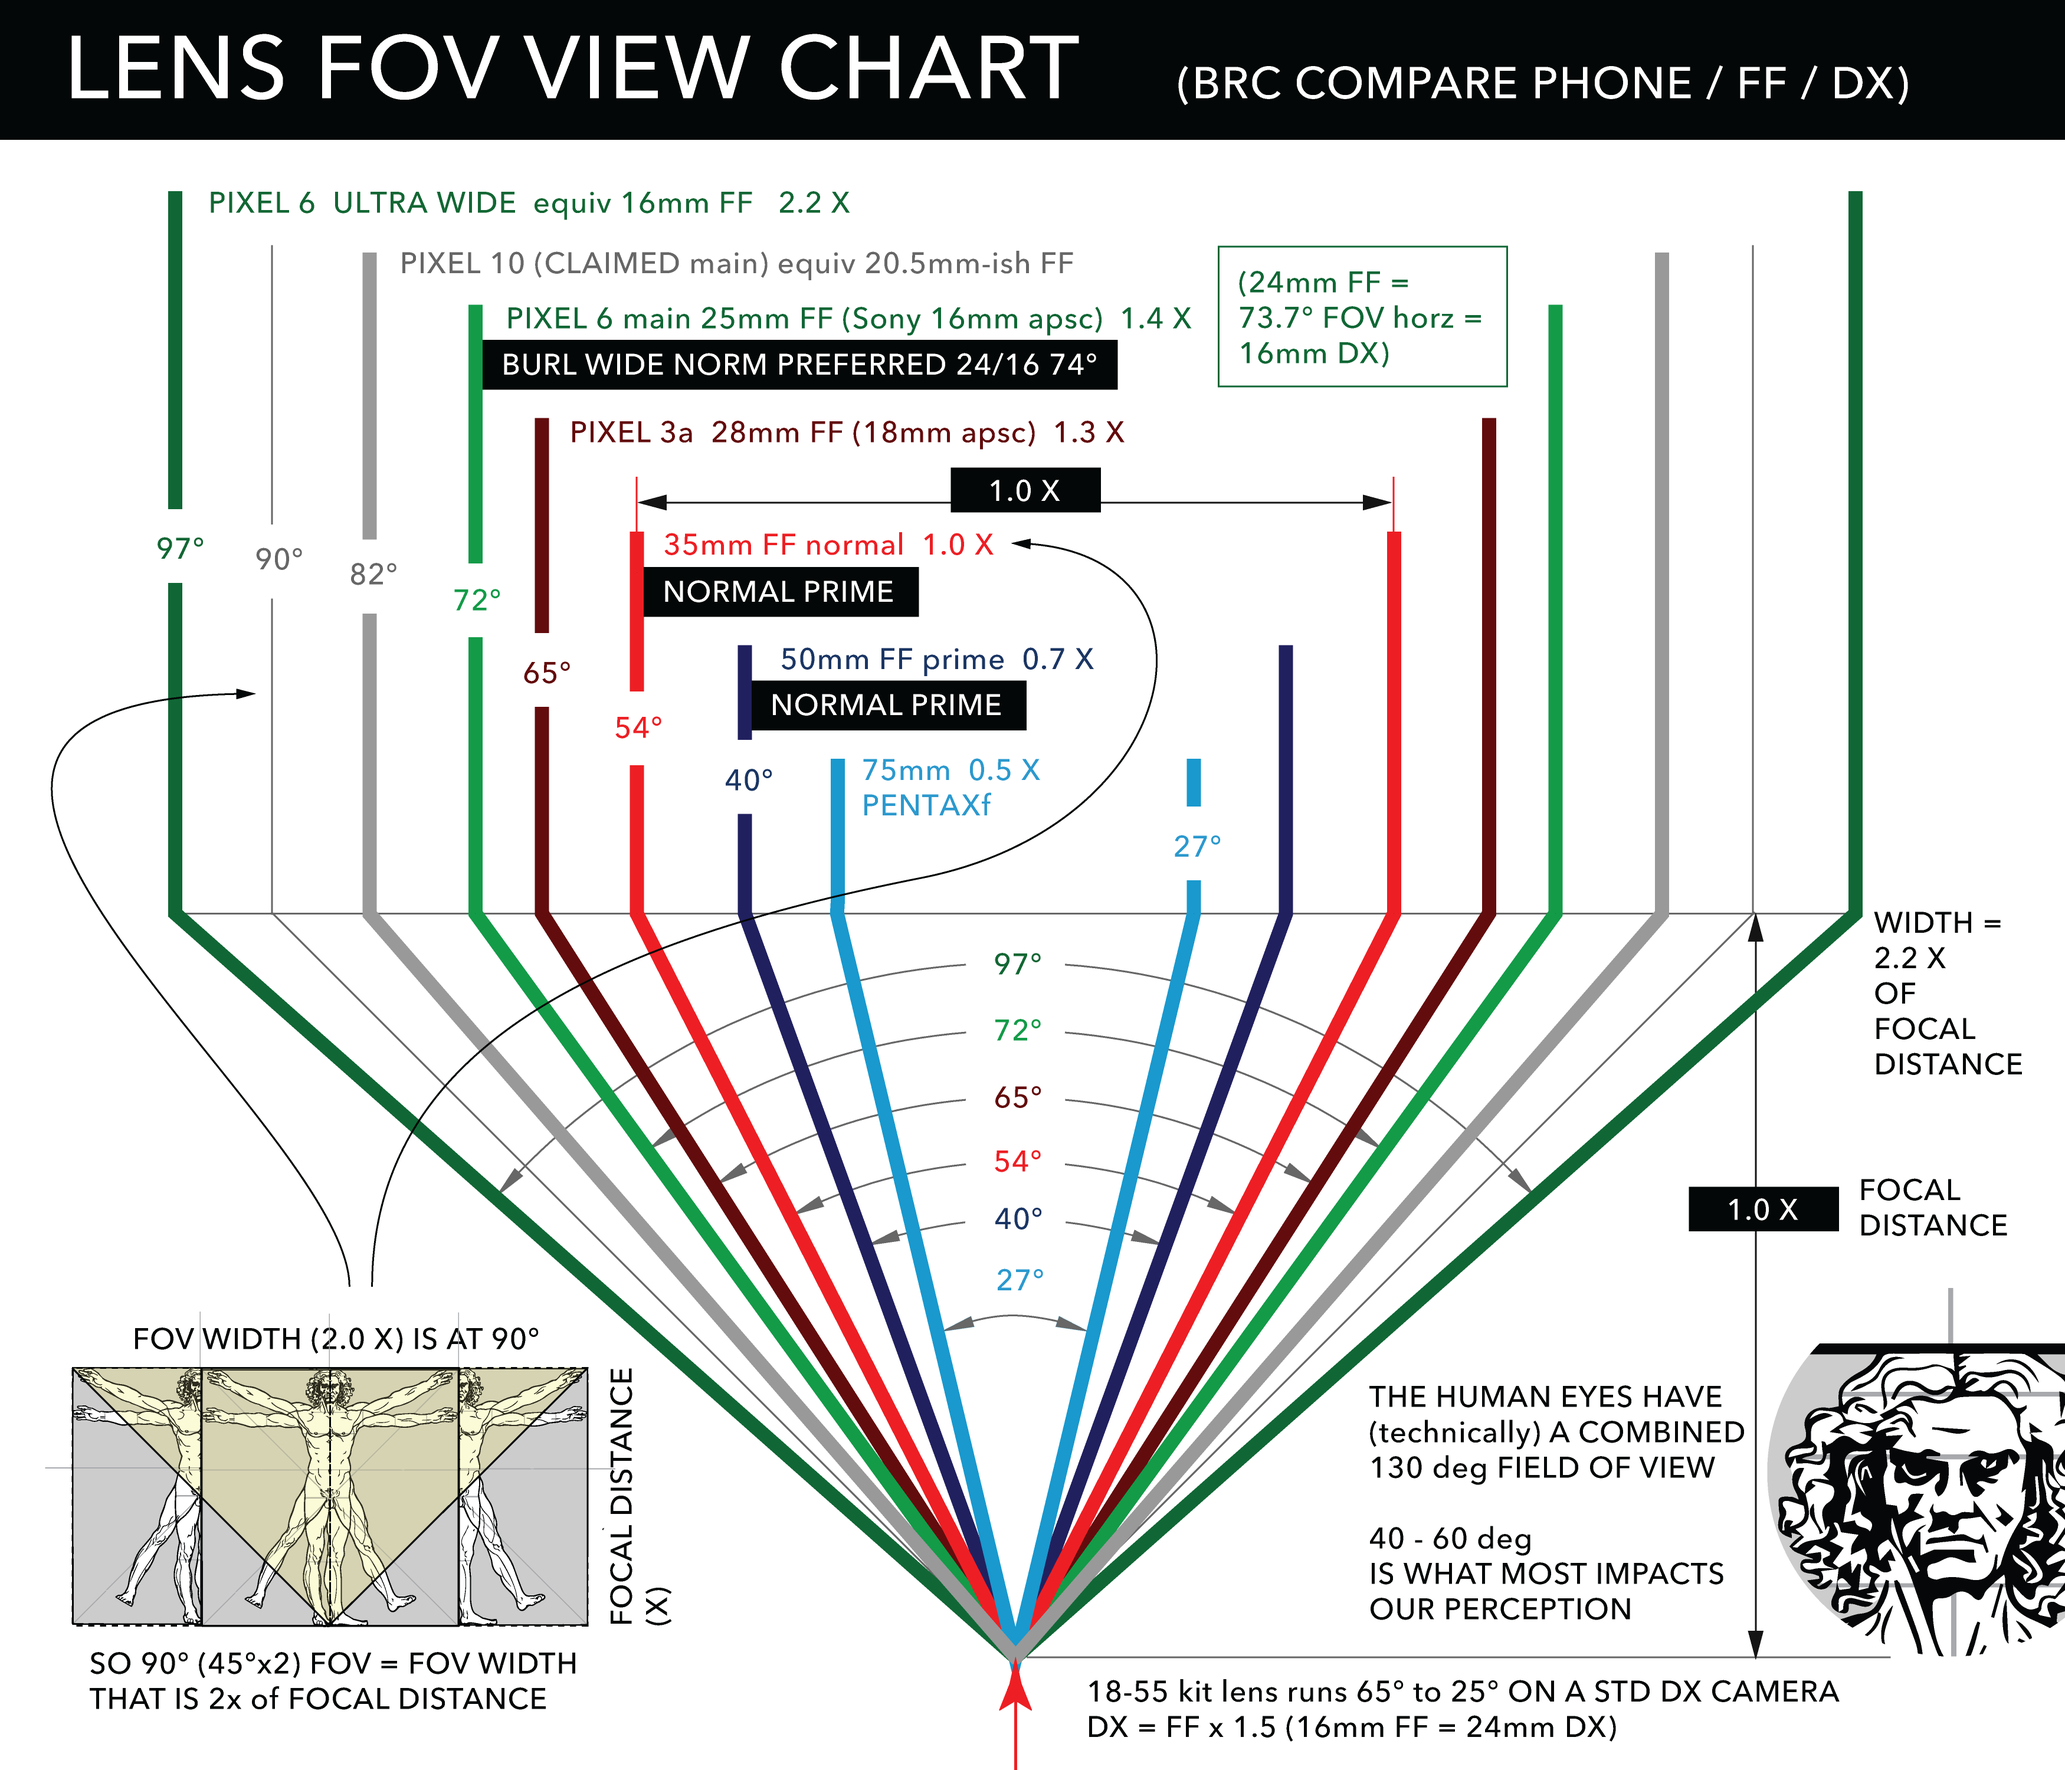
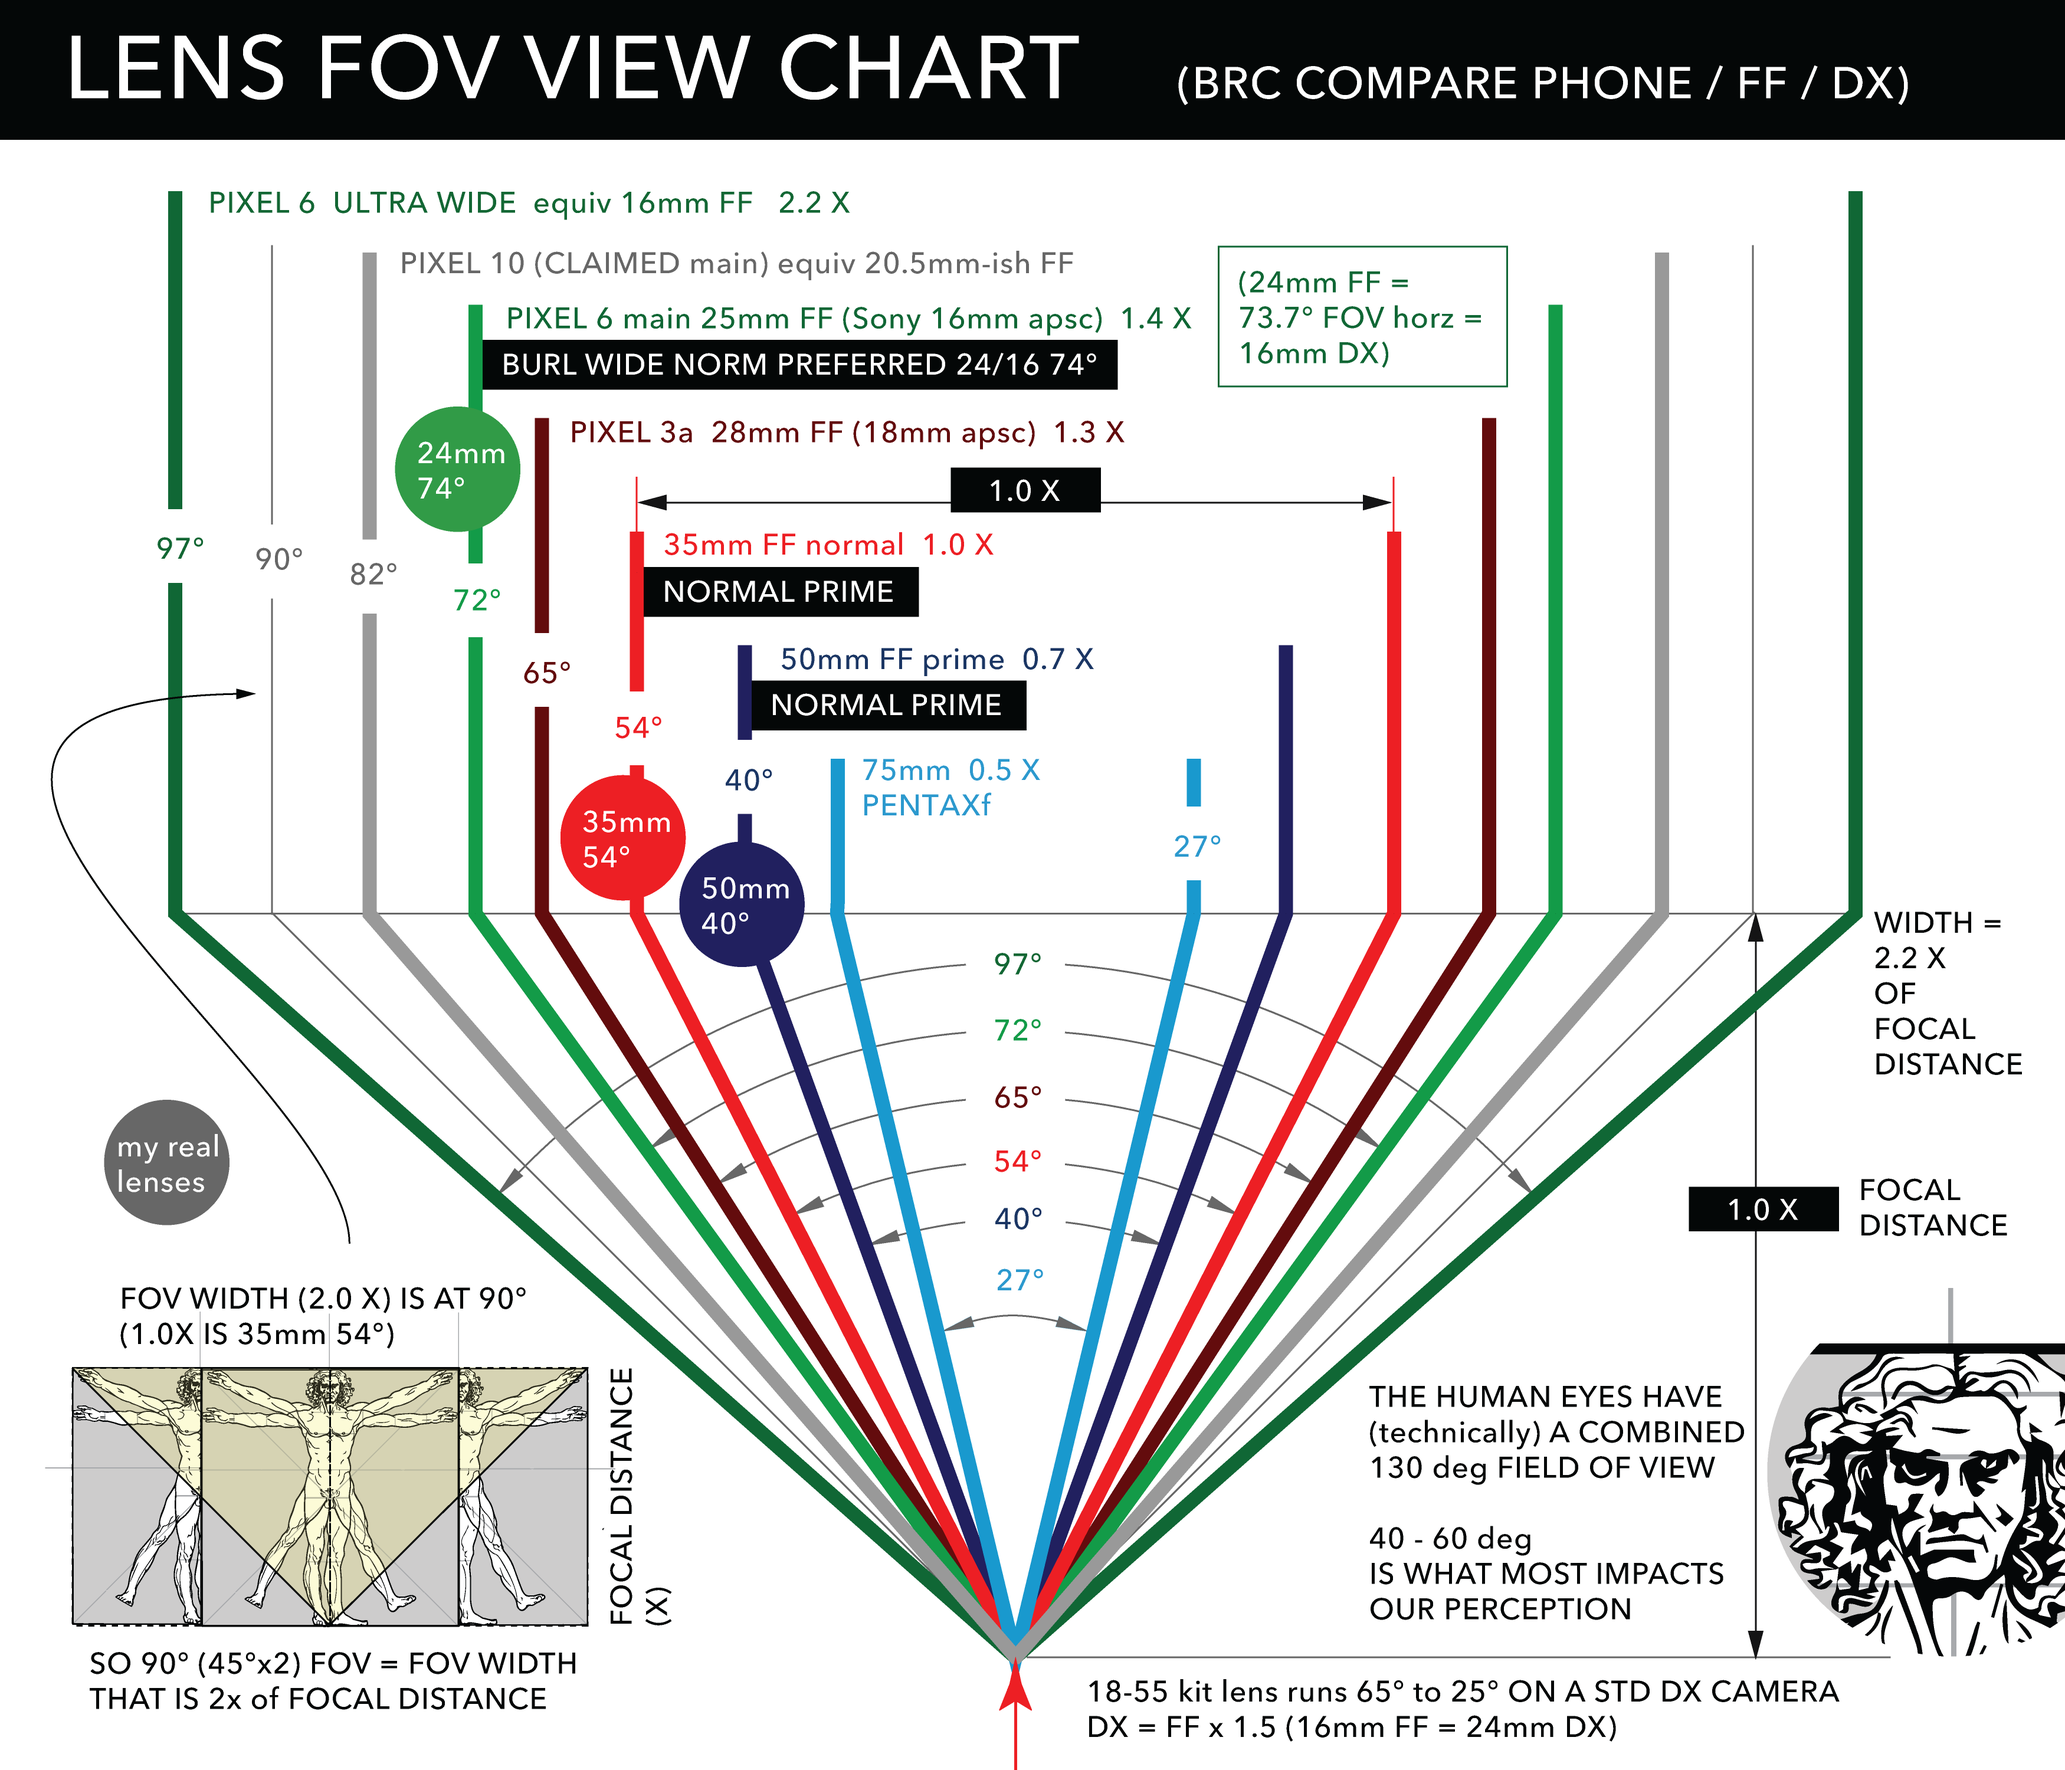
fov image

Changed region(s): [[0.0311, 0.62, 0.2491, 0.775], [0.2491, 0.434, 0.4049, 0.558], [0.1869, 0.217, 0.2491, 0.31]]

diff --git a/0test/camera.htm b/0test/camera.htm
@@ -28,12 +28,21 @@ body, html { background-image: none; }
 
 <br>
 ---------------------<br>
-Field of View<br>
+FIELD OF VIEW<br>
 ---------------------<br>
 <br>
 
-
 </div> <!-- zc Close -->
+
+
+
+<div class="zoneclass"> <!-- ZC -->
+
+<a href="https://photos.app.goo.gl/ETZzJrPm43scQuNj6" class="button media external"><span class="font">Europe 2001</span><img src="images/000/gpic.png" class="badge"></a>
+
+<a href="https://www.pointsinfocus.com/tools/depth-of-field-and-equivalent-lens-calculator" class="button media external"><span class="font">len FOV</span><img src="images/000/square.png" class="badge"></a>
+
+</div> <!-- ZC Close -->
 
 
 
@@ -48,14 +57,13 @@ Field of View<br>
 
 
 
-<div class="zoneclass"> <!-- ZC -->
+<div class="zoneclass"> <span class="regcase"> <!-- ZC -->
 
 <br>
 ---------------------<br>
 CAMERAS<br>
 ---------------------<br>
 <br>
-
 
 Original 35mm fixed lens VIVITAR
 <br>
@@ -135,7 +143,7 @@ Pixel 6 - wider angle, like my ideal 16/24mm. So sharp and bright, unreal pics f
 
 
 
-<div class="zoneclass"> <!-- ZC -->
+<div class="zoneclass"> <span class="regcase"> <!-- ZC -->
 
 <br>
 ---------------------<br>
@@ -195,16 +203,9 @@ My nephew asked - what filter is that? Because they look soft of warm magical. H
 
 
 
-<div class="zoneclass"> <!-- ZC -->
-
-<a href="https://photos.app.goo.gl/ETZzJrPm43scQuNj6" class="button media external"><span class="font">Europe 2001</span><img src="images/000/gpic.png" class="badge"></a>
-
-<a href="https://www.pointsinfocus.com/tools/depth-of-field-and-equivalent-lens-calculator" class="button media external"><span class="font">len FOV</span><img src="images/000/square.png" class="badge"></a>
-
-</div> <!-- ZC Close -->
 
 
-<div class="zoneclass"> <!-- ZC -->
+<div class="zoneclass"> <span class="regcase"> <!-- ZC -->
 
 <br>
 ---------------------<br>
@@ -246,7 +247,7 @@ In any case, it was a really lovely lens to use. The mechanisms and markings and
 
 
 
-<div class="zoneclass"> <!-- ZC -->
+<div class="zoneclass"> <span class="regcase"> <!-- ZC -->
 
 <br>
 ---------------------<br>
@@ -259,8 +260,17 @@ The Samsung A5 camera was OK, but Samsung over-saturates and without optical sta
 <br><br>
 The Pixels changed everything.
 <br>
-The colour processing is amazing and overall the image quality is just absurdly high. It's odd. My ideal (favoured) FOV is as per a 24mm ff lens (16mm on an APSC). That's 74°. A 50mm ff is 40°, a 35 prime ff is 54°. The pixel 3a was 65°, so 1/2 way beteen a normal 50mma nd a wide 24mm. SO the Pixel 3a was good for me, but still a compromise from a real camera. However the Pixel 6 came in at an astounding 72° - just 2° off a 24mm. Wow. They too, when making a totally mainstream camera, recognize the magical quality of wide shots. It's amazing. The Pixel 10, which I have not used, is listed as FOV 82° ! Wow, maybe too wide? That is amazing. With the right software you could have a set switch (instead of just 'zoom', like on a kit lens) for a set of primes - a 35, a 50, a 24, and a 20.5 (82° FOV). That is amazing. And appearently the lens they use in the pixel cameras is itself not that great - it certainly is small - it's the software magic (and I think repreated exposures in some cases from which they can build a file. I think the moment between the file take/save - as a RAW file - and the 'presentation' of a JPG has fantastic value,a nd explains why teh camera phones can do so much even up against real cameras and lenses of a previous generation.
+The colour processing is amazing and overall the image quality is just absurdly high. It's odd. My ideal (favoured) FOV is as per a 24mm ff lens (16mm on an APSC). That's 74°. A 50mm ff is 40°, a 35 prime ff is 54°. The pixel 3a was 65°, so 1/2 way beteen a normal 50mm and a wide 24mm. So the Pixel 3a was good for me, but still a compromise from a real camera. However the Pixel 6 came in at an astounding 72° - just 2° off a 24mm. Wow. They too, when making a totally mainstream camera, recognize the magical quality of wide shots. It's amazing. The Pixel 10, which I have not used, is listed as FOV 82° ! Wow, maybe too wide? That is amazing. With the right software you could have a set switch (instead of just 'zoom', like on a kit lens) for a set of primes - a 35, a 50, a 24, and a 20.5 (82° FOV). That is amazing. And appearently the lens they use in the pixel cameras is itself not that great - it certainly is small - it's the software magic (and I think repeated exposures in some cases from which they can build a file). I think the moment between the file take/save - as a RAW file - and the 'presentation' of a JPG has fantastic value, and explains why the camera phones can do so much even up against real cameras and lenses of a previous generation. It's like you insert a robot professional developing studio between the shutter button and the negative production. 
+<br><br>
+The Pixels are also rather lovely to use. The 3a felt good; the 6 bigger, heavier but more solid in the hand, easier to frame steady, and the bigger better screen makes a tangable difference. 
+<br><br>
+The real thing missing on the phone camera is real mechanical lens depth of field. Fake Bokeh is, well, fake Bokeh, and just basically sad. So for lots of great shots the Pixel rules. For a special moment of real bokeh one gets a real camera with a fast prime. However the pain of procressing a DSLR image is also real. In a way, I'd say the best solution might be an old film camera for buttery bokeh and fun film/lens magic. If you can endure the processing time and effort of the film. Slides, again, to be manually photographed (for instant Google Photo upload) may be the best after all. Although I don't know how much slide processing costs now...... (It's probably worth it. Just take the bulk of documentary shots with the Pixel, and a much smaller number of artistic shots with the film cam)
 <br>
+<br>
+I liked using the Pentax DSLR 50/35mm Prime as for all the portrait shots and the Sony A5 16/24mm for wide - 2 cameras with prime, not one body and 2 lenses. So maybe that solution remains - however the loevly wide pixel replaces the Sony and whatever used manual film camera (with a 50) replaces the (adequate, but not great) K100d.
+<br>
+<br>
+*** One could also try those phone add-on Moment Lenses. I wonder if they would work for a portartit camera. And for canoe trips, maybe one Pixel for the bulk of wide shots and a second Pixel (old/last one) with a moment case and lens for portarit? Will it make Bokeh? That'd be great. It would also mean always carrying a back-up camera in case of loss disaster.
 
 </div> <!-- ZC Close -->
 
